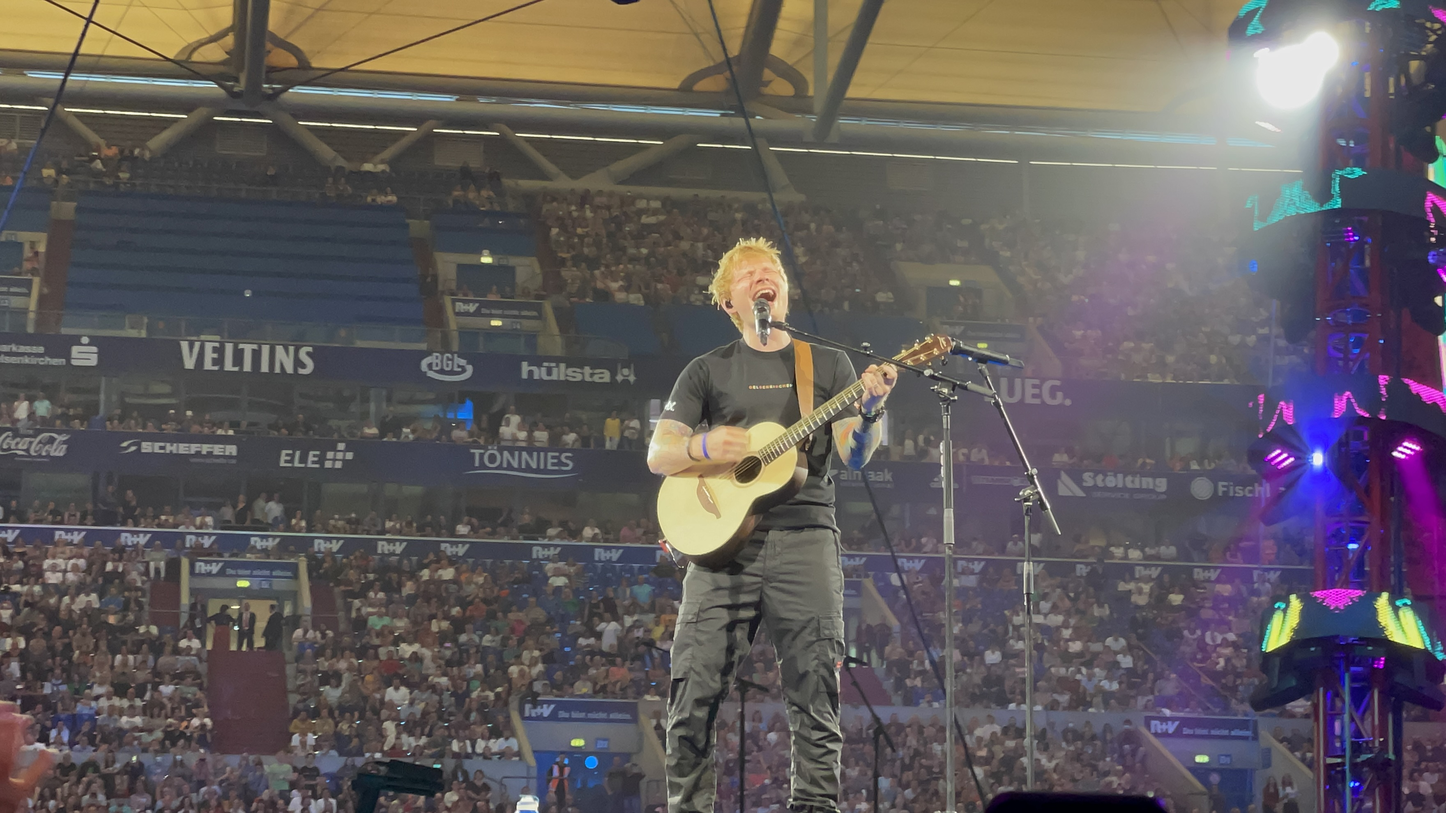
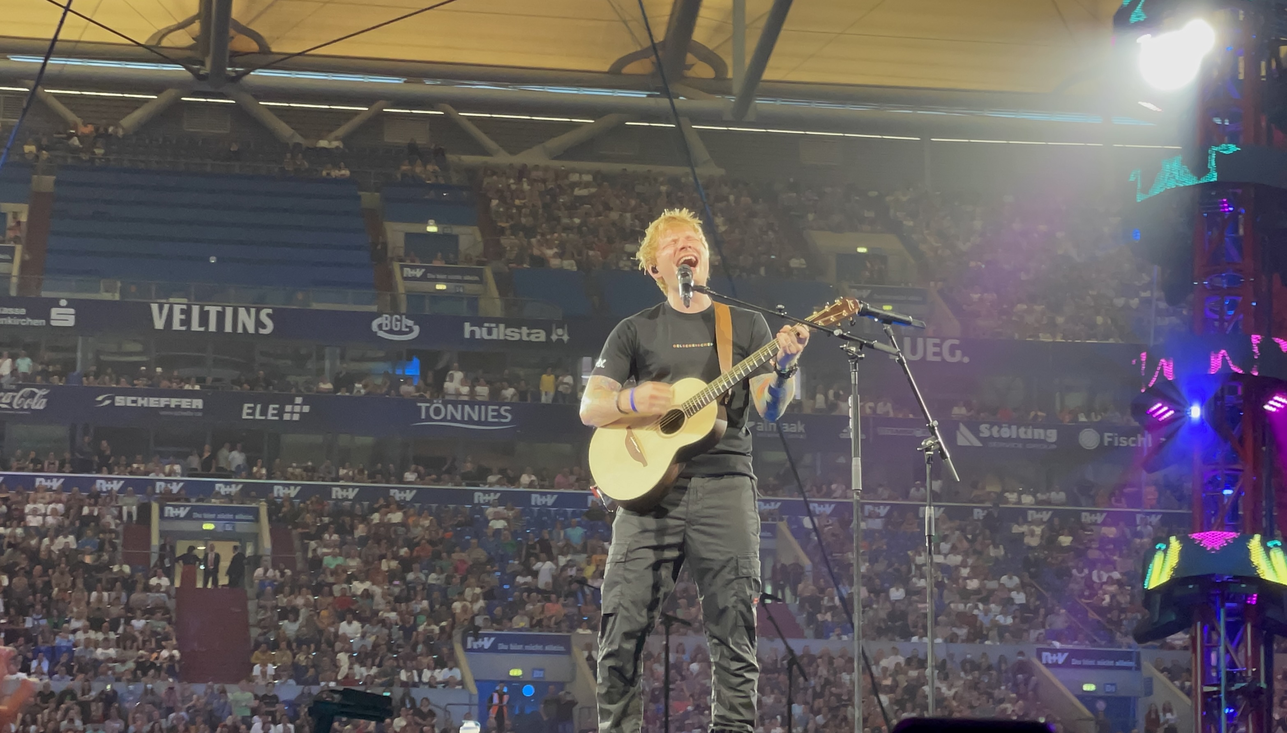
Image try

diff --git a/docs/blog/sheeran/index.html b/docs/blog/sheeran/index.html
@@ -9,7 +9,7 @@
 
   <body>
     <article><div><h1>Hearts Dont Break Around Here</h1><p><img src="/webblog/images/sheeran.jpg" alt="sheeran header"></img></p><blockquote>"Lets pretend we're dancing in the streets."</blockquote><h1>7 Abende mit Ed</h1><p>Sieben Konzerte, vier Städte und ziemlich viele Songs, die ich inzwischen auswendig kenne. Was 2022 in Gelsenkirchen angefangen hat, hat mich über München und Gdańsk bis nach Hamburg geführt. Hier sammle ich ein paar Erinnerungen an jeden dieser Abende.</p><h2>+−=÷× Tour</h2><h4>VELTINS-Arena Gelsenkirchen · 8. Juli 2022</h4><p>Mein erstes Ed-Sheeran-Konzert – und offensichtlich nicht mein letztes.</p><p><img src="/webblog/images/ednight1.jpg" alt="sheeran1"></img></p><p>---</p><h4>VELTINS-Arena Gelsenkirchen · 9. Juli 2022
-<b>VELTINS-Arena</b></h4><p>Direkt am nächsten Abend noch einmal. Diesmal wusste ich schon ein bisschen besser, was mich erwartet – weniger besonders wurde es dadurch aber nicht.</p><p><img src="/webblog/images/ednight2.jpg" alt="sheeran1"></img></p><p>---</p><h4>Olympiastadion München · 10. September 2022
+<b>VELTINS-Arena</b></h4><p>Direkt am nächsten Abend noch einmal. Diesmal wusste ich schon ein bisschen besser, was mich erwartet – weniger besonders wurde es dadurch aber nicht.</p><p><img src="/webblog/images/ednight2.jpg" alt="sheeran2"></img></p><p>---</p><h4>Olympiastadion München · 10. September 2022
 <b>Olympiastadion</b></h4><p>[Deine Erinnerung]</p><p><img src="/webblog/images/munchen1.jpg" alt="sheeran3"></img></p><p>---</p><h4>Olympiastadion München · 12. September 2022
 <b>Olympiastadion</b></h4><p>[Deine Erinnerung]</p><p><img src="/webblog/images/munchen2.jpg" alt="sheeran4"></img></p><p>---</p><h4>Polsat Plus Arena, Gdańsk · 13. Juli 2024
 </h4><p>[Deine Erinnerung]</p><p><img src="/webblog/images/gdansk.jpg" alt="sheeran5"></img></p><h2>Mathematics Tour – European Tour 2025</h2><h4>Volksparkstadion Hamburg · 4. Juli 2025</h4><p>[Deine Erinnerung]</p><p><img src="/webblog/images/hamburg1.jpg" alt="sheeran5"></img></p><p>---</p><h4>Volksparkstadion Hamburg · 5. Juli 2025</h4><p>[Deine Erinnerung]</p><p><img src="/webblog/images/hamburg22.jpg" alt="sheeran5"></img></p></div></article>

diff --git a/content/blog/sheeran/index.md b/content/blog/sheeran/index.md
@@ -26,7 +26,7 @@ Direkt am nächsten Abend noch einmal. Diesmal wusste ich schon ein
 bisschen besser, was mich erwartet – weniger besonders wurde es dadurch
 aber nicht.
 
-![sheeran1](/images/ednight2.jpg)
+![sheeran2](/images/ednight2.jpg)
 
 ---
 
